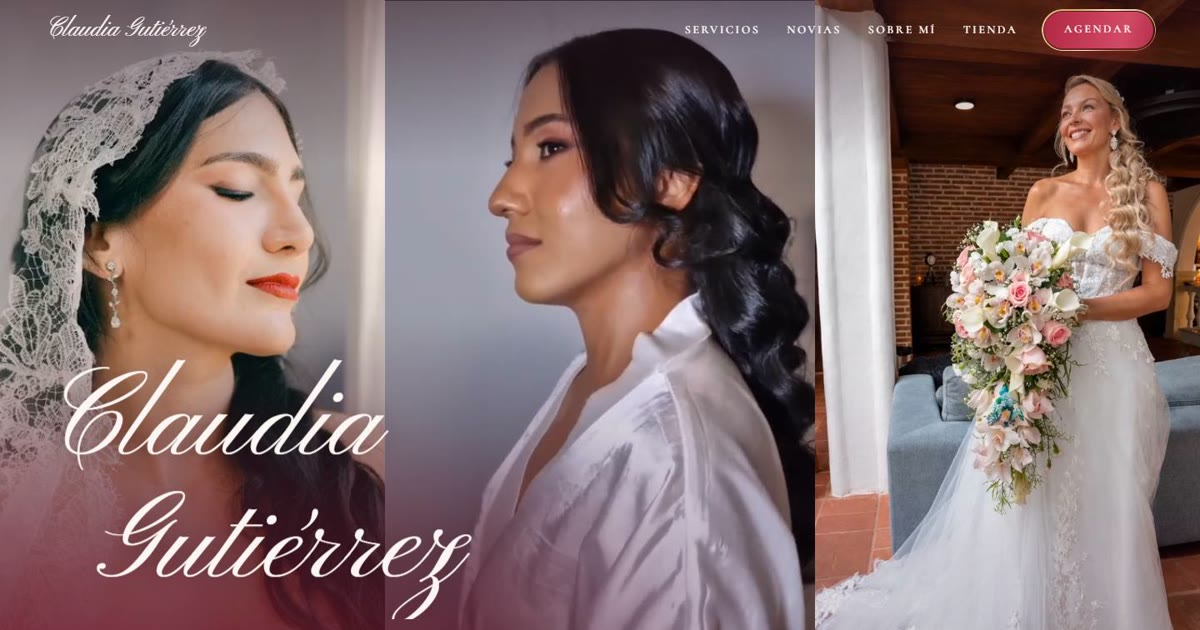
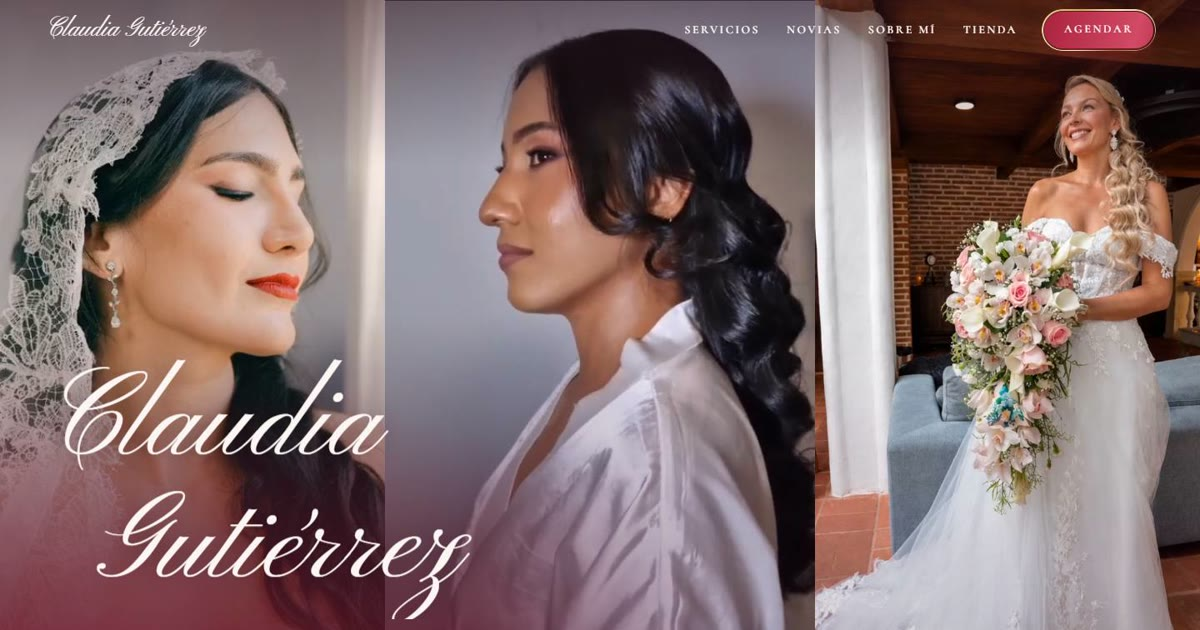
Actualiza la demo con la última versión de la página
Copia de la carpeta sitio, sin material sin procesar y excluida de buscadores.

Changed region(s): [[0.37, 0.0302, 0.6783, 1.0]]

diff --git a/index.html b/index.html
@@ -353,49 +353,95 @@ html:not(.js) .manifiesto{background:var(--satin)}
   .svc-nombre,.svc figure,.producto img,.marco-foto video,.marco-foto img{transition:none}
 }
 
+/* Boton del menu: solo aparece cuando no caben los enlaces. */
+.nav-abrir{display:none;position:relative;flex:none;width:40px;height:44px;padding:0;border:0;background:none;color:inherit;cursor:pointer}
+.nav-abrir span,.nav-abrir::before,.nav-abrir::after{content:"";position:absolute;left:9px;right:9px;height:1.5px;background:currentColor;transition:transform .3s var(--suave),opacity .2s ease}
+.nav-abrir span{top:21px}
+.nav-abrir::before{top:14px}
+.nav-abrir::after{top:28px}
+.nav.abierto .nav-abrir span{opacity:0}
+.nav.abierto .nav-abrir::before{transform:translateY(7px) rotate(45deg)}
+.nav.abierto .nav-abrir::after{transform:translateY(-7px) rotate(-45deg)}
+
 @media (max-width:999px){
-  .nav-links{display:none}
+  .nav{gap:.5rem}
+  .nav-abrir{display:block}
   .nav .btn{margin-left:auto}
+  .nav-links{position:absolute;top:100%;left:0;right:0;flex-direction:column;align-items:center;gap:.2rem;margin:0;padding:1.1rem var(--gutter) 1.6rem;background:rgba(251,246,244,.97);color:var(--tinta);box-shadow:0 26px 40px -24px rgba(70,20,35,.5);opacity:0;visibility:hidden;transform:translateY(-8px);transition:opacity .28s ease,transform .35s var(--suave),visibility .28s}
+  .nav-links a{padding:.25rem 1rem;font:400 2.5rem/1.15 var(--guion);letter-spacing:0;text-transform:none}
+  .nav-links a::after{display:none}
+  .nav.abierto{background:rgba(251,246,244,.97);color:var(--tinta)}
+  .nav.abierto .nav-links{opacity:1;visibility:visible;transform:none}
 }
 @media (max-width:399px){
   .btn{padding:0 1.3rem;letter-spacing:.13em;font-size:.84rem}
-  .nav{gap:.75rem}
+  .nav .btn{padding:0 1rem;font-size:.78rem}
+  .nav .marca{font-size:clamp(1.28rem,6.6vw,1.5rem)}
 }
-/* Tablet y celular: una sola toma en portada y todo en una columna. */
+
+/* Tablet y celular: misma estructura del computador, a la escala de la pantalla. */
 @media (max-width:899px){
-  .paneles{grid-template-columns:1fr}
-  .panel:nth-child(n+2){display:none}
-  .hero h1{font-size:min(23vw,17.5svh)}
-  .hero h1 .linea:nth-child(2)>span{margin-left:.2em}
   .nav{height:64px}
   .marca{font-size:1.7rem}
-  .hero-texto{bottom:clamp(82px,11svh,104px)}
-  .pausa{left:var(--margen);right:auto;bottom:clamp(20px,3svh,30px)}
 
-  .svc-lista{padding-right:0;display:grid;gap:clamp(44px,9vw,64px)}
-  .svc-lista::after{display:none}
-  .svc a{padding:0 0 1.1rem}
-  .svc figure{position:static;width:84%;opacity:1;visibility:visible}
-  .svc:nth-child(even) figure{margin-left:auto}
-  .svc:nth-child(even) a{text-align:right}
-  .svc .marco-foto{height:auto;aspect-ratio:3/4}
-  .svc.activo .svc-nombre{font-family:var(--serif);font-weight:500;letter-spacing:-.012em;transform:none;color:inherit}
+  /* Servicios: lista a la izquierda y arco a la derecha; la imagen cambia sola. */
+  .svc-lista{padding-right:47%}
+  .svc-lista::after{right:-8%;top:50%;width:54%;translate:0 -50%}
+  .svc a{padding:.55rem 0}
+  .svc-nombre{font-size:clamp(1.9rem,8.4vw,3.8rem)}
+  .svc-desc{margin-top:.15rem;font-size:clamp(1.02rem,3.2vw,1.25rem);line-height:1.22}
+  .svc.activo .svc-nombre{transform:translateX(4px) scale(1.1)}
+  .svc figure{top:50%;bottom:auto;right:2%;width:42%;aspect-ratio:9/18;translate:0 -50%}
 
-  .tira{grid-template-columns:1fr;row-gap:64px}
-  .t{grid-column:auto;margin-top:0;width:84%}
-  .t:nth-child(even){margin-left:auto}
+  /* Novias: mosaico escalonado de dos columnas, como el del computador. */
+  .tira{grid-template-columns:1fr 1fr;column-gap:clamp(22px,6vw,48px);row-gap:clamp(34px,8vw,64px)}
+  .t{grid-column:auto;margin-top:0}
+  .t:nth-child(even){margin-top:clamp(40px,13vw,96px)}
+  .t1 .marco-foto,.t2 .marco-foto,.t3 .marco-foto,.t4 .marco-foto,.t6 .marco-foto{aspect-ratio:4/5.6}
+  .t5 .marco-foto{aspect-ratio:1/1.1}
+  .leyenda{margin-top:.85rem;font-size:clamp(1.04rem,4vw,1.35rem);line-height:1.2}
+  .leyenda::before{width:48px;margin-bottom:.4rem}
 
-  .claudia-rejilla,.agenda-rejilla{grid-template-columns:1fr}
-  .retrato{width:88%;margin-inline:auto}
-  .agenda-pie{grid-template-columns:1fr;justify-items:center;text-align:center}
-  .agenda-ramo{width:min(56%,240px)}
+  /* Sobre mi: retrato al lado del titulo. */
+  .claudia-rejilla{grid-template-columns:47% 1fr;column-gap:clamp(20px,5vw,44px);row-gap:.9rem;align-items:center}
+  .claudia-rejilla>div{display:contents}
+  .retrato{grid-column:1;grid-row:1}
+  .claudia h2{grid-column:2;grid-row:1;font-size:clamp(2.35rem,10vw,4.4rem)}
+  .claudia h2 .guion{display:block}
+  .claudia-cuerpo,.formacion,.cita{grid-column:1/-1;margin-top:0;max-width:none}
+  .claudia-cuerpo{margin-top:.6rem}
+  .cita{margin-top:.8rem}
+
+  /* Tienda: la bolsa al lado del titulo. */
+  .tienda-cabeza{grid-template-columns:1fr 33%;gap:clamp(14px,4vw,36px)}
+  .tienda h2{font-size:clamp(2.35rem,10vw,4.4rem)}
+  .productos{grid-template-columns:repeat(2,1fr)}
+
+  /* Agenda: el ramo al lado de los contactos y la tarjeta debajo. */
+  .agenda-rejilla{grid-template-columns:1fr}
+  .agenda-pie{grid-template-columns:37% 1fr;gap:clamp(18px,5vw,44px)}
+  .contacto{gap:.65rem}
+  .contacto a{font-size:clamp(.98rem,4vw,1.3rem)}
   .tarjeta-zona{margin-top:18px}
   .marco--tarjeta .ramita{left:-20px;width:60px;bottom:-10px}
   .marco--tarjeta .ramita--der{left:auto;right:-20px}
+}
 
-  .tienda-cabeza{grid-template-columns:1fr}
-  .tienda-bolsa{width:62%;margin-inline:auto}
-  .productos{grid-template-columns:repeat(2,1fr)}
+/* Portada en celular vertical: las tres tomas en el mismo orden, arriba, y el nombre debajo. */
+@media (max-width:899px) and (orientation:portrait){
+  .hero{background:#3a1220}
+  /* Empiezan debajo del menu para que no le tape la cabeza a nadie. */
+  .paneles{top:44px;bottom:auto;height:calc(62svh - 44px);grid-template-columns:31% 38% 31%;-webkit-mask-image:linear-gradient(to bottom,#000 72%,transparent);mask-image:linear-gradient(to bottom,#000 72%,transparent)}
+  .panel:nth-child(1) video{object-position:74% 6%}
+  .panel:nth-child(2) video{object-position:20% 8%}
+  .panel:nth-child(3) video{object-position:66% 10%}
+  .velo{background:radial-gradient(120% 60% at 0% 100%,rgba(143,24,50,.5) 0,rgba(143,24,50,0) 66%),linear-gradient(to top,rgba(58,18,32,.9) 0,rgba(58,18,32,.62) 30%,rgba(58,18,32,0) 52%)}
+  .hero h1{font-size:min(23vw,17.5svh,132px)}
+  .hero h1 .linea:nth-child(2)>span{margin-left:.2em}
+  .hero-sub{max-width:none;flex-basis:100%}
+  .hero-pie{margin-top:clamp(26px,4.4svh,44px);gap:.75rem 1rem}
+  .hero-texto{bottom:clamp(16px,2.6svh,28px)}
+  .pausa{bottom:calc(clamp(16px,2.6svh,28px) + 4px);padding:0 .9rem;font-size:.7rem;letter-spacing:.12em}
 }
 </style>
 </head>
@@ -407,13 +453,14 @@ html:not(.js) .manifiesto{background:var(--satin)}
 
 <nav class="nav" id="nav" aria-label="Principal">
   <a class="marca" href="#inicio">Claudia Gutiérrez</a>
-  <div class="nav-links">
+  <div class="nav-links" id="nav-links">
     <a href="#servicios">Servicios</a>
     <a href="#novias">Novias</a>
     <a href="#claudia">Sobre mí</a>
     <a href="#tienda">Tienda</a>
   </div>
   <a class="btn btn--agendar" href="#agenda">Agendar</a>
+  <button class="nav-abrir" id="nav-abrir" type="button" aria-expanded="false" aria-controls="nav-links" aria-label="Abrir menú"><span></span></button>
 </nav>
 
 <div class="cortina">
@@ -667,8 +714,8 @@ html:not(.js) .manifiesto{background:var(--satin)}
     if (pausado) return false;
     if (portadaFuera && video.closest('.hero')) return false;
     var fila = video.closest('.svc');
-    /* En computador, de los servicios solo corre el que se está viendo. */
-    if (fila && !celular.matches && !fila.classList.contains('activo')) return false;
+    /* De los servicios solo corre el video que se está viendo. */
+    if (fila && !fila.classList.contains('activo')) return false;
     return true;
   }
   function reproducir(video) {
@@ -732,8 +779,10 @@ html:not(.js) .manifiesto{background:var(--satin)}
     });
   }
   function paletaEn(y) {
-    /* Tramo largo de mezcla: el color cambia tan despacio que no se nota un salto. */
-    var ancho = Math.max(720, altoVentana * 1.6);
+    /* Tramo largo de mezcla: el color cambia tan despacio que no se nota un salto.
+       En celular es mas corto porque las secciones son cortas: el color queda listo
+       cuando el titulo llega arriba y el texto se lee bien. */
+    var ancho = celular.matches ? Math.max(460, altoVentana * 0.85) : Math.max(720, altoVentana * 1.6);
     var actual = PALETAS[0].lab.map(function (c) { return c.slice(); });
     for (var i = 1; i < PALETAS.length; i++) {
       var k = suave(inicios[i] - ancho / 2, inicios[i] + ancho / 2, y);
@@ -872,6 +921,22 @@ html:not(.js) .manifiesto{background:var(--satin)}
     nav.classList.toggle('solida', !e[0].isIntersecting);
   }).observe(document.getElementById('centinela'));
 
+  /* Menú en celular: se abre con el botón y se cierra al elegir, con Esc o al tocar fuera. */
+  var botonMenu = document.getElementById('nav-abrir');
+  function cerrarMenu() {
+    nav.classList.remove('abierto');
+    botonMenu.setAttribute('aria-expanded', 'false');
+    botonMenu.setAttribute('aria-label', 'Abrir menú');
+  }
+  botonMenu.addEventListener('click', function () {
+    var abierto = nav.classList.toggle('abierto');
+    botonMenu.setAttribute('aria-expanded', abierto ? 'true' : 'false');
+    botonMenu.setAttribute('aria-label', abierto ? 'Cerrar menú' : 'Abrir menú');
+  });
+  document.querySelectorAll('.nav-links a').forEach(function (a) { a.addEventListener('click', cerrarMenu); });
+  document.addEventListener('keydown', function (e) { if (e.key === 'Escape') cerrarMenu(); });
+  document.addEventListener('click', function (e) { if (!nav.contains(e.target)) cerrarMenu(); });
+
   /* ---------- Frase principal: se enciende palabra por palabra (CSS) ---------- */
   var frase = document.getElementById('frase');
   var palabras = frase.textContent.trim().split(/\s+/);
@@ -899,28 +964,41 @@ html:not(.js) .manifiesto{background:var(--satin)}
   }, { rootMargin: '0px 0px -8% 0px', threshold: 0.05 });
   document.querySelectorAll('[data-ver]').forEach(function (el) { vigiaVer.observe(el); });
 
-  /* En celular cada servicio muestra su imagen; las ramitas se dibujan al llegar a ella. */
-  var vigiaSvc = new IntersectionObserver(function (entradas) {
-    entradas.forEach(function (e) {
-      if (e.isIntersecting) { e.target.classList.add('visto'); vigiaSvc.unobserve(e.target); }
-    });
-  }, { threshold: 0.2 });
-  document.querySelectorAll('.svc figure').forEach(function (f) { vigiaSvc.observe(f); });
-
   /* ---------- Servicios: al pasar por un nombre cambia la imagen ---------- */
   var filas = [].slice.call(document.querySelectorAll('.svc'));
+  function activarFila(fila) {
+    if (fila.classList.contains('activo')) return;
+    filas.forEach(function (f) { f.classList.toggle('activo', f === fila); });
+    filas.forEach(function (f) {
+      var v = f.querySelector('video');
+      if (!v) return;
+      if (f === fila) { aLaVista.add(v); reproducir(v); }
+      else v.pause();
+    });
+  }
   filas.forEach(function (fila) {
-    function activar() {
-      if (fila.classList.contains('activo')) return;
-      filas.forEach(function (f) { f.classList.toggle('activo', f === fila); });
-      filas.forEach(function (f) {
-        var v = f.querySelector('video');
-        if (v && aLaVista.has(v)) reproducir(v);
-        else if (v && f === fila && !celular.matches) { aLaVista.add(v); reproducir(v); }
-      });
-    }
-    fila.addEventListener('mouseenter', activar);
-    fila.addEventListener('focusin', activar);
+    fila.addEventListener('mouseenter', function () { activarFila(fila); });
+    fila.addEventListener('focusin', function () { activarFila(fila); });
+  });
+
+  /* En celular no hay mouse: mientras la lista se ve, los servicios pasan solos. */
+  var turnoServicios = null;
+  function detenerTurnos() { clearInterval(turnoServicios); turnoServicios = null; }
+  function iniciarTurnos() {
+    if (turnoServicios || !celular.matches) return;
+    turnoServicios = setInterval(function () {
+      var actual = filas.findIndex(function (f) { return f.classList.contains('activo'); });
+      activarFila(filas[(actual + 1) % filas.length]);
+    }, 3400);
+  }
+  var listaVisible = false;
+  new IntersectionObserver(function (e) {
+    listaVisible = e[0].isIntersecting;
+    if (listaVisible) iniciarTurnos(); else detenerTurnos();
+  }, { threshold: 0.25 }).observe(document.getElementById('svc-lista'));
+  celular.addEventListener('change', function () {
+    detenerTurnos();
+    if (listaVisible) iniciarTurnos();
   });
 
   /* ---------- Formulario de agenda: arma el mensaje y abre WhatsApp ---------- */
